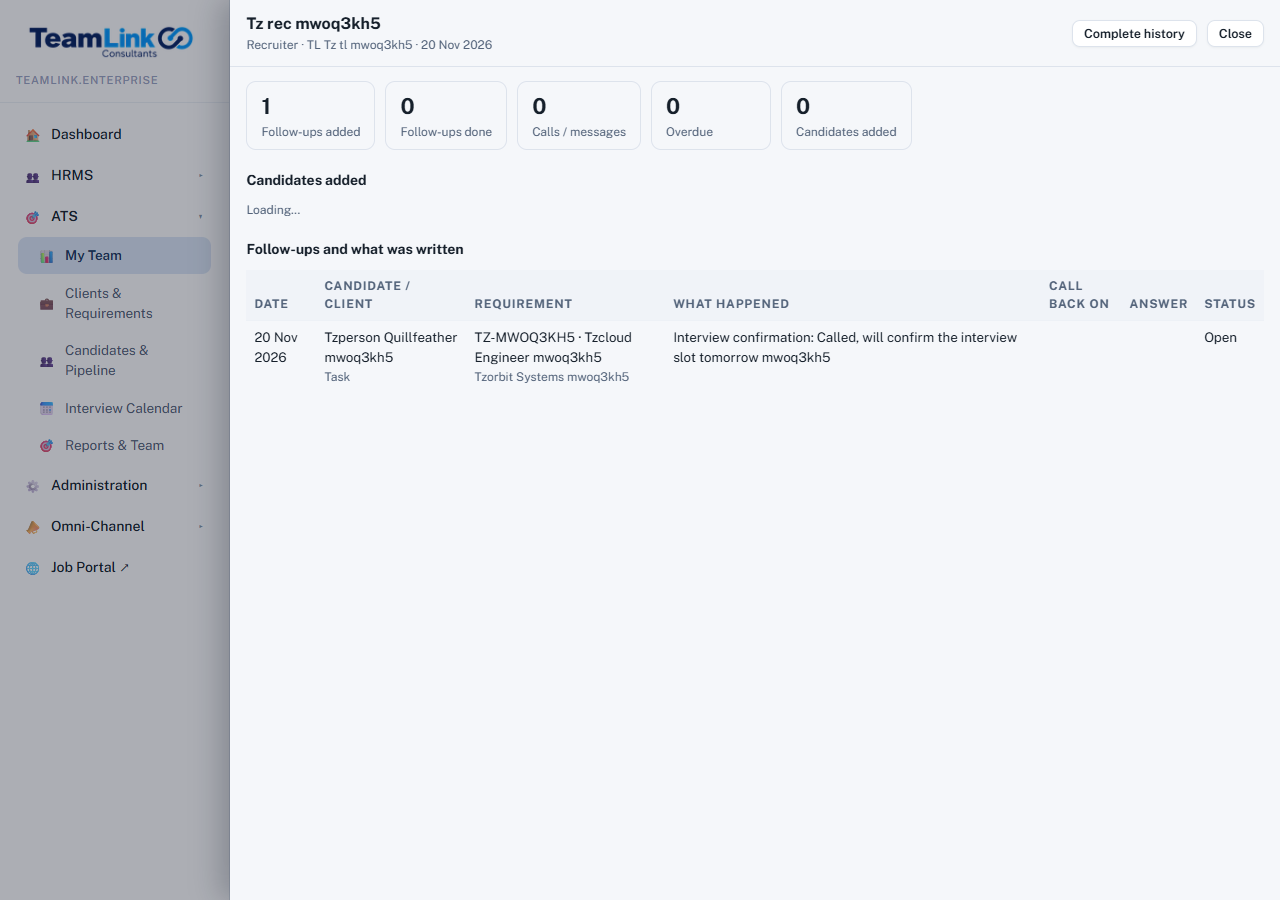
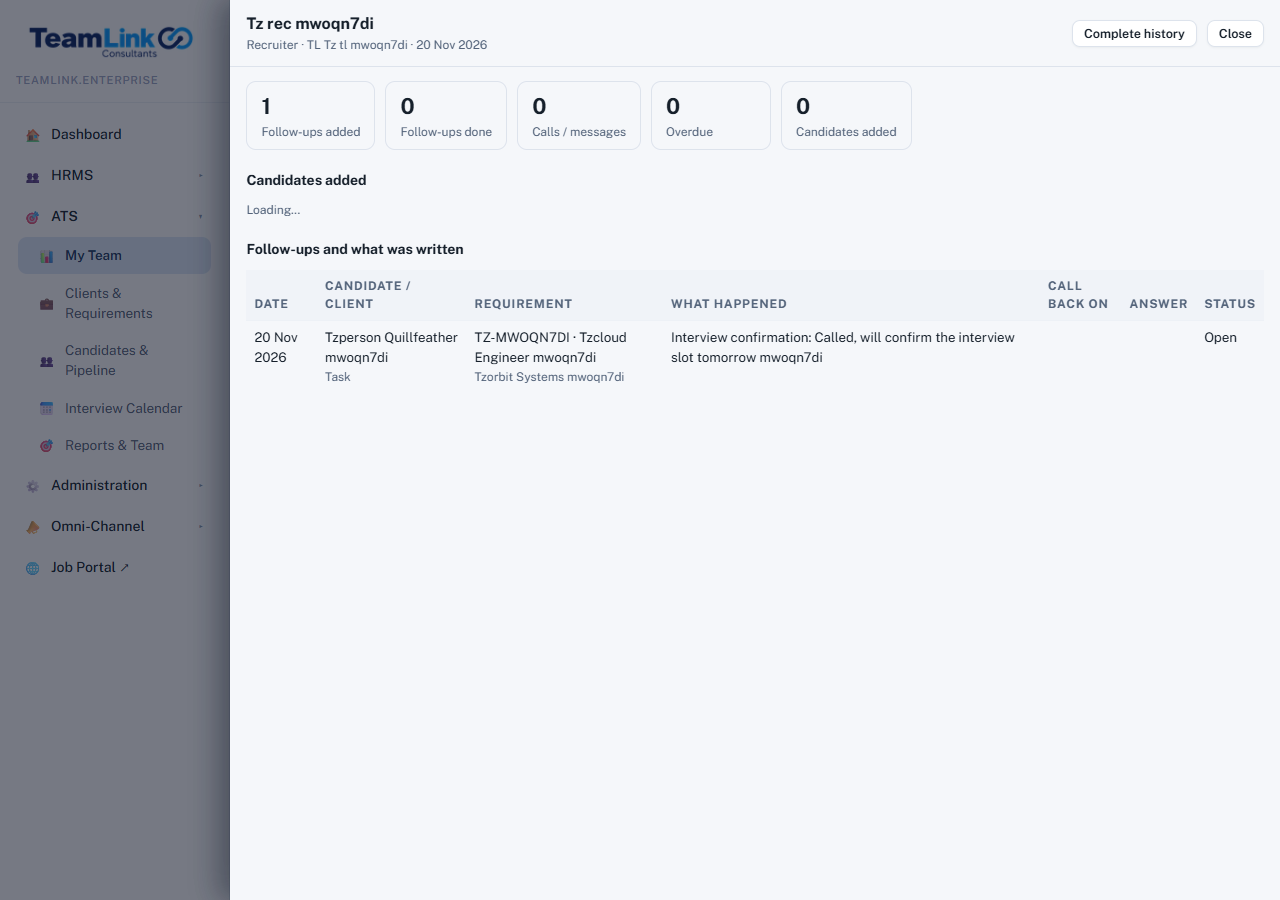
Overall report: the same button for a team lead (their team) and the Super Admin (team leads first: a team lead opens that team, a recruiter opens their own report); browser smoke

diff --git a/frontend/src/components/dashboard/TeamReportCard.jsx b/frontend/src/components/dashboard/TeamReportCard.jsx
@@ -124,15 +124,12 @@ function PersonPanel({ person, from, to, onClose }) {
   );
 }
 
-// the table: one row per person + View. Used inside the TL's card and inside the Super Admin's overall panel.
-function ReportTable({ title, onClose }) {
+// the days chosen (Today, Yesterday, This week, This month or two dates), shared by every level of the Overall report
+function useRange() {
   const [opts, setOpts] = useState(null);
   const [range, setRange] = useState({ from: '', to: '' });
   const [preset, setPreset] = useState('today');
-  const [data, setData] = useState(null);
-  const [open, setOpen] = useState(null);
   const [failed, setFailed] = useState(false);
-
   useEffect(() => {
     api.get('/followup-report/options').then((r) => {
       setOpts(r.data);
@@ -140,83 +137,176 @@ function ReportTable({ title, onClose }) {
       setRange({ from: p[2], to: p[3] });
     }).catch(() => setFailed(true));
   }, []);
+  return {
+    opts, range, preset, failed,
+    choose: (key, from, to) => { setPreset(key); setRange({ from, to }); },
+    setFrom: (v) => { setPreset('custom'); setRange((r) => ({ ...r, from: v })); },
+    setTo: (v) => { setPreset('custom'); setRange((r) => ({ ...r, to: v })); },
+  };
+}
+function RangeBar({ r, children }) {
+  return (
+    <div className="trc-bar">
+      {presetsFor(r.opts.today).map(([k, l, f, t]) => <button key={k} type="button" className={`btn btn-sm${r.preset === k ? ' btn-primary' : ''}`} onClick={() => r.choose(k, f, t)}>{l}</button>)}
+      <label className="small-muted">From <input type="date" value={r.range.from} max={r.range.to || undefined} onChange={(e) => r.setFrom(e.target.value)} /></label>
+      <label className="small-muted">To <input type="date" value={r.range.to} min={r.range.from || undefined} onChange={(e) => r.setTo(e.target.value)} /></label>
+      {children}
+    </div>
+  );
+}
+const useSummary = (r, leadId) => {
+  const [data, setData] = useState(null);
+  const [failed, setFailed] = useState(false);
   useEffect(() => {
-    if (!opts || !range.from || !range.to || range.to < range.from) return;
-    api.get('/followup-report/summary', { params: { from: range.from, to: range.to, period: 'day', imported: 'include' } })
-      .then((r) => { setData(r.data); setFailed(false); }).catch(() => setFailed(true));
-  }, [opts, range]);
+    if (!r.opts || !r.range.from || !r.range.to || r.range.to < r.range.from) return;
+    api.get('/followup-report/summary', { params: { from: r.range.from, to: r.range.to, period: 'day', imported: 'include', leadId: leadId || undefined } })
+      .then((x) => { setData(x.data); setFailed(false); }).catch(() => setFailed(true));
+  }, [r.opts, r.range.from, r.range.to, leadId]); // eslint-disable-line react-hooks/exhaustive-deps
+  return { data, failed };
+};
+const sum4 = (rows) => [0, 1, 2, 3].map((i) => rows.reduce((n, x) => n + (x.m[i] || 0), 0));
+const Num = ({ v, bad }) => <td className={`trc-num${v ? '' : ' trc-zero'}${bad && v ? ' trc-bad' : ''}`}>{v || '–'}</td>;
 
+// ONE team: one row per recruiter + View, and the team's overall line. Used in the team lead's card and inside the Super Admin's team page.
+function TeamTable({ r, leadId, title, onBack, onClose }) {
+  const { data, failed } = useSummary(r, leadId);
+  const [open, setOpen] = useState(null);
   if (failed && !data) return onClose ? <div className="error-text">The report could not be loaded.</div> : null; // a login with no report simply has no card
-  if (!opts) return onClose ? <div className="small-muted">Loading…</div> : null;
+  if (!r.opts) return onClose ? <div className="small-muted">Loading…</div> : null;
   const idx = data ? SHOWN.map(([k]) => data.fields.indexOf(k)) : [];
-  const shown = (r) => ({ ...r, m: idx.map((i) => (i >= 0 ? r.m[i] : 0)) });
-  const choose = (key, from, to) => { setPreset(key); setRange({ from, to }); };
-  const showLead = !!data && data.table.headers.includes('TL');
-
+  const shown = (x) => ({ ...x, m: idx.map((i) => (i >= 0 ? x.m[i] : 0)) });
   return (
     <>
       <div className="trc-head">
-        <h3>{title}</h3>
-        <div className="trc-bar">
-          {presetsFor(opts.today).map(([k, l, f, t]) => <button key={k} type="button" className={`btn btn-sm${preset === k ? ' btn-primary' : ''}`} onClick={() => choose(k, f, t)}>{l}</button>)}
-          <label className="small-muted">From <input type="date" value={range.from} max={range.to || undefined} onChange={(e) => { setPreset('custom'); setRange((r) => ({ ...r, from: e.target.value })); }} /></label>
-          <label className="small-muted">To <input type="date" value={range.to} min={range.from || undefined} onChange={(e) => { setPreset('custom'); setRange((r) => ({ ...r, to: e.target.value })); }} /></label>
-          {onClose && <button type="button" className="btn btn-sm" onClick={onClose}>Close</button>}
+        <div className="trc-titlebar">
+          {onBack && <button type="button" className="btn btn-sm" onClick={onBack}>← All team leads</button>}
+          <h3>{title}</h3>
         </div>
+        <RangeBar r={r}>{onClose && <button type="button" className="btn btn-sm" onClick={onClose}>Close</button>}</RangeBar>
       </div>
       {!data ? <div className="small-muted">Loading…</div> : (
         <div className="trd-scroll">
           <table className="trc-table">
             <thead>
-              <tr><th>Recruiter</th>{showLead && <th>TL</th>}{SHOWN.map(([k, l]) => <th key={k} className="trc-num">{l}</th>)}<th /></tr>
+              <tr><th>Recruiter</th>{SHOWN.map(([k, l]) => <th key={k} className="trc-num">{l}</th>)}<th /></tr>
             </thead>
             <tbody>
               {data.rows.map((raw) => {
-                const r = shown(raw);
+                const x = shown(raw);
                 return (
-                  <tr key={r.id}>
-                    <td><b>{r.name}</b>{r.former ? <span className="trc-tag">left</span> : null}</td>
-                    {showLead && <td>{r.leadName || ''}</td>}
-                    {r.m.map((v, i) => <td key={SHOWN[i][0]} className={`trc-num${v ? '' : ' trc-zero'}${SHOWN[i][0] === 'overdue' && v ? ' trc-bad' : ''}`}>{v || '–'}</td>)}
-                    <td className="trc-act"><button type="button" className="btn btn-sm" onClick={() => setOpen(r)}>View</button></td>
+                  <tr key={x.id}>
+                    <td><b>{x.name}</b>{x.role === 'TL' ? <span className="trc-tag">team lead</span> : null}{x.former ? <span className="trc-tag">left</span> : null}</td>
+                    {x.m.map((v, i) => <Num key={SHOWN[i][0]} v={v} bad={SHOWN[i][0] === 'overdue'} />)}
+                    <td className="trc-act"><button type="button" className="btn btn-sm" onClick={() => setOpen(x)}>View</button></td>
                   </tr>
                 );
               })}
-              {data.rows.length === 0 && <tr><td colSpan={SHOWN.length + 3} className="small-muted">Nobody in this team yet.</td></tr>}
+              {data.rows.length === 0 && <tr><td colSpan={SHOWN.length + 2} className="small-muted">Nobody in this team yet.</td></tr>}
             </tbody>
             {data.rows.length > 1 && (
               <tfoot>
-                <tr><td><b>Total</b></td>{showLead && <td />}{idx.map((i, n) => <td key={SHOWN[n][0]} className="trc-num"><b>{(i >= 0 && data.total.m[i]) || '–'}</b></td>)}<td /></tr>
+                <tr><td><b>Team overall</b></td>{idx.map((i, n) => <td key={SHOWN[n][0]} className="trc-num"><b>{(i >= 0 && data.total.m[i]) || '–'}</b></td>)}<td /></tr>
               </tfoot>
             )}
           </table>
         </div>
       )}
-      {open && <PersonPanel person={open} from={range.from} to={range.to} onClose={() => setOpen(null)} />}
+      {open && <PersonPanel person={open} from={r.range.from} to={r.range.to} onClose={() => setOpen(null)} />}
     </>
   );
 }
 
-// the dashboard piece: a team lead gets the card; a Super Admin gets the one "Overall report" button; nobody else gets anything
-export default function TeamReportCard({ user }) {
-  const [all, setAll] = useState(false);
-  if (!user) return null;
-  if (user.role === 'SUPER_ADMIN') {
-    return (
-      <div className="trc-adminbar">
-        <button type="button" className="btn btn-primary" onClick={() => setAll(true)}>Overall report</button>
-        <span className="small-muted">Every recruiter's work: follow-ups, calls and the candidates they added, day by day.</span>
-        {all && (
-          <div className="trd-wrap" role="presentation">
-            <div className="trd-back" onMouseDown={() => setAll(false)} aria-hidden="true" />
-            <aside className="trd-panel" role="dialog" aria-modal="true" aria-label="Overall report">
-              <div className="trd-body"><ReportTable title="Overall report" onClose={() => setAll(false)} /></div>
-            </aside>
-          </div>
-        )}
+// the Super Admin's first page: ONE ROW PER TEAM LEAD with the team's numbers; View opens that team (its recruiters, the team overall)
+function TlList({ r, onPick, onClose }) {
+  const { data, failed } = useSummary(r, '');
+  const [openOne, setOpenOne] = useState(null);
+  if (failed && !data) return <div className="error-text">The report could not be loaded.</div>;
+  if (!r.opts || !data) return <div className="small-muted">Loading…</div>;
+  const idx = SHOWN.map(([k]) => data.fields.indexOf(k));
+  const mOf = (x) => idx.map((i) => (i >= 0 ? x.m[i] : 0));
+  const tls = data.rows.filter((x) => ['TL', 'STL'].includes(x.role));
+  const teams = tls.map((tl) => {
+    const members = data.rows.filter((x) => x.id !== tl.id && x.leadName === tl.name);
+    return { tl, members, m: sum4([{ m: mOf(tl) }, ...members.map((x) => ({ m: mOf(x) }))]) };
+  }).sort((a, b) => a.tl.name.localeCompare(b.tl.name));
+  const none = data.rows.filter((x) => !['TL', 'STL'].includes(x.role) && !x.leadName);
+  return (
+    <>
+      <div className="trc-head">
+        <h3>Overall report</h3>
+        <RangeBar r={r}>{onClose && <button type="button" className="btn btn-sm" onClick={onClose}>Close</button>}</RangeBar>
       </div>
-    );
-  }
-  if (user.atsRole !== 'TL') return null;
-  return <div className="card section trc"><ReportTable title="Report of your team" /></div>;
+      <div className="trd-scroll">
+        <table className="trc-table">
+          <thead>
+            <tr><th>Team lead</th><th className="trc-num">Recruiters</th>{SHOWN.map(([k, l]) => <th key={k} className="trc-num">{l}</th>)}<th /></tr>
+          </thead>
+          <tbody>
+            {teams.map(({ tl, members, m }) => (
+              <tr key={tl.id}>
+                <td><b>{tl.name}</b>{tl.former ? <span className="trc-tag">left</span> : null}</td>
+                <td className="trc-num">{members.length || '–'}</td>
+                {m.map((v, i) => <Num key={SHOWN[i][0]} v={v} bad={SHOWN[i][0] === 'overdue'} />)}
+                <td className="trc-act"><button type="button" className="btn btn-sm" onClick={() => onPick(tl)}>View</button></td>
+              </tr>
+            ))}
+            {none.length > 0 && (
+              <tr>
+                <td><b>No team lead</b><div className="small-muted">{none.map((x) => x.name).join(', ')}</div></td>
+                <td className="trc-num">{none.length}</td>
+                {sum4(none.map((x) => ({ m: mOf(x) }))).map((v, i) => <Num key={SHOWN[i][0]} v={v} bad={SHOWN[i][0] === 'overdue'} />)}
+                <td className="trc-act">{none.length === 1 ? <button type="button" className="btn btn-sm" onClick={() => setOpenOne(none[0])}>View</button> : null}</td>
+              </tr>
+            )}
+            {teams.length === 0 && none.length === 0 && <tr><td colSpan={SHOWN.length + 3} className="small-muted">Nobody to show.</td></tr>}
+          </tbody>
+          <tfoot>
+            <tr><td><b>Everyone</b></td><td />{idx.map((i, n) => <td key={SHOWN[n][0]} className="trc-num"><b>{(i >= 0 && data.total.m[i]) || '–'}</b></td>)}<td /></tr>
+          </tfoot>
+        </table>
+      </div>
+      {openOne && <PersonPanel person={{ ...openOne, m: mOf(openOne) }} from={r.range.from} to={r.range.to} onClose={() => setOpenOne(null)} />}
+    </>
+  );
+}
+
+function OverallPanel({ onClose }) {
+  const r = useRange();
+  const [lead, setLead] = useState(null);
+  if (r.failed) return <div className="error-text">The report could not be loaded.</div>;
+  if (!r.opts) return <div className="small-muted">Loading…</div>;
+  return lead
+    ? <TeamTable r={r} leadId={lead.id} title={`${lead.name}'s team`} onBack={() => setLead(null)} onClose={onClose} />
+    : <TlList r={r} onPick={setLead} onClose={onClose} />;
+}
+
+// the team lead's own report page (inside the side panel): their team, recruiter by recruiter, with the team overall
+function TlPanel({ onClose }) {
+  const r = useRange();
+  if (r.failed) return <div className="error-text">The report could not be loaded.</div>;
+  if (!r.opts) return <div className="small-muted">Loading…</div>;
+  return <TeamTable r={r} title="Report of your team" onClose={onClose} />;
+}
+
+// the dashboard piece: the SAME "Overall report" button for a Super Admin (team leads first) and for a team lead (their team); it opens a side
+// panel. Nobody else gets anything.
+export default function TeamReportCard({ user }) {
+  const [open, setOpen] = useState(false);
+  if (!user) return null;
+  const admin = user.role === 'SUPER_ADMIN';
+  if (!admin && user.atsRole !== 'TL') return null;
+  return (
+    <div className="trc-adminbar">
+      <button type="button" className="btn btn-primary" onClick={() => setOpen(true)}>Overall report</button>
+      <span className="small-muted">{admin ? "Every team lead's team: click a team lead for their recruiters, a recruiter for their own work." : "Your team: every recruiter's follow-ups, calls and the candidates they added. Click View on a recruiter."}</span>
+      {open && (
+        <div className="trd-wrap" role="presentation">
+          <div className="trd-back" onMouseDown={() => setOpen(false)} aria-hidden="true" />
+          <aside className="trd-panel" role="dialog" aria-modal="true" aria-label={admin ? 'Overall report' : 'Report of your team'}>
+            <div className="trd-body">{admin ? <OverallPanel onClose={() => setOpen(false)} /> : <TlPanel onClose={() => setOpen(false)} />}</div>
+          </aside>
+        </div>
+      )}
+    </div>
+  );
 }

diff --git a/backend/scripts/team-report-smoke.js b/backend/scripts/team-report-smoke.js
@@ -1,7 +1,7 @@
 #!/usr/bin/env node
 /**
- * BROWSER SMOKE of the dashboard's 'Report of your team' (founder 2026-11-20): only a TL has the card, a recruiter has none, the Super Admin has the
- * 'Overall report' button. View opens a person's report: the candidates they added and every follow-up with its text. A private sandbox server (copy of the sandbox database) + the Vite dev server in front of it + Edge.
+ * BROWSER SMOKE of the dashboard's 'Report of your team' (founder 2026-11-20): a TL and the Super Admin have the same 'Overall report' button (TL: their team; Admin: team leads first),
+ * a recruiter has none. View opens a person's report: the candidates they added and every follow-up with its text. A private sandbox server (copy of the sandbox database) + the Vite dev server in front of it + Edge.
  *   TEST_SOURCE_DB=<sandbox.db> TEST_PORT=4301 node scripts/team-report-smoke.js     (screenshots: docs/team-report-2026-11-20/)
  */
 const fs = require('fs');
@@ -70,20 +70,23 @@ const waitFor = async (url, tries = 240) => { for (let i = 0; i < tries; i += 1)
     return { ctx, page };
   };
   try {
-    // TL: the card, one row per recruiter, View
+    // TL: the same "Overall report" button as the Super Admin; it opens THEIR team (recruiter rows + View + team overall)
     {
       const { ctx, page } = await open(tl, '/ats/dashboard');
-      const card = page.locator('.trc', { hasText: 'Report of your team' });
-      const up = await card.waitFor({ state: 'visible', timeout: 30000 }).then(() => true).catch(() => false);
-      check('TL: the dashboard has "Report of your team"', up, await page.evaluate(() => document.body.innerText.slice(0, 300)).catch(() => ''));
+      const btn = page.locator('button', { hasText: 'Overall report' });
+      const up = await btn.waitFor({ state: 'visible', timeout: 60000 }).then(() => true).catch(() => false);
+      check('TL: the dashboard has the "Overall report" button (no always-open card)', up && (await page.locator('.trc').count()) === 0, await page.evaluate(() => document.body.innerText.slice(0, 300)).catch(() => ''));
       if (up) {
-        const row = card.locator('tr', { hasText: rec.name });
-        await row.waitFor({ state: 'visible', timeout: 30000 }).catch(() => null);
-        check('TL: the card has one row for their recruiter, with a View button', await row.locator('button', { hasText: 'View' }).isVisible().catch(() => false));
-        check('TL: Today / Yesterday / This week / This month and two date boxes are there', (await card.locator('button', { hasText: /^(Today|Yesterday|This week|This month)$/ }).count()) === 4 && (await card.locator('input[type=date]').count()) === 2);
-        await page.screenshot({ path: path.join(SHOTS, 'tl-card.png') });
+        await btn.click();
+        const team = page.locator('.trd-panel', { hasText: 'Report of your team' });
+        const row = team.locator('tr', { hasText: rec.name });
+        const rowUp = await row.waitFor({ state: 'visible', timeout: 60000 }).then(() => true).catch(() => false);
+        check('TL: the button opens their team: one row for their recruiter, with a View button', rowUp && (await row.locator('button', { hasText: 'View' }).isVisible()));
+        check('TL: Today / Yesterday / This week / This month and two date boxes are there', (await team.locator('button', { hasText: /^(Today|Yesterday|This week|This month)$/ }).count()) === 4 && (await team.locator('input[type=date]').count()) === 2);
+        check('TL: the team overall line is not shown for a team of one, but the recruiter\'s numbers are', rowUp);
+        await page.screenshot({ path: path.join(SHOTS, 'tl-team-panel.png') });
         await row.locator('button', { hasText: 'View' }).click();
-        const panel = page.locator('.trd-panel');
+        const panel = page.locator('.trd-panel', { hasText: 'Candidates added' }).last();
         const pv = await panel.waitFor({ state: 'visible', timeout: 20000 }).then(() => true).catch(() => false);
         check('TL: View opens that recruiter\'s report in a side panel', pv);
         if (pv) {
@@ -94,36 +97,49 @@ const waitFor = async (url, tries = 240) => { for (let i = 0; i < tries; i += 1)
           check('TL: ...and the follow-up with the text that was written', (await panel.innerText()).includes(WROTE));
           await page.screenshot({ path: path.join(SHOTS, 'tl-view-panel.png') });
           await page.keyboard.press('Escape');
-          check('TL: Escape closes the panel', await panel.waitFor({ state: 'detached', timeout: 5000 }).then(() => true).catch(() => false));
+          check('TL: Escape closes the recruiter panel and the team stays', await page.locator('.trd-panel', { hasText: 'Candidates added' }).count() === 0 && await team.isVisible());
         }
       }
       await ctx.close();
     }
-    // Recruiter: no card at all
+    // Recruiter: nothing at all
     {
       const { ctx, page } = await open(rec, '/ats/dashboard');
       await page.waitForTimeout(4000);
-      check('Recruiter: no team report card and no Overall report button', (await page.locator('.trc').count()) === 0 && (await page.locator('button', { hasText: 'Overall report' }).count()) === 0);
+      check('Recruiter: no team report and no Overall report button', (await page.locator('.trc').count()) === 0 && (await page.locator('button', { hasText: 'Overall report' }).count()) === 0);
       await ctx.close();
     }
-    // Super Admin: only the Overall report button
+    // Super Admin: the button; first page = team leads; a team lead -> that team; a recruiter -> their report
     {
       const { ctx, page } = await open(sa, '/ats/dashboard');
       const btn = page.locator('button', { hasText: 'Overall report' });
       const there = await btn.waitFor({ state: 'visible', timeout: 90000 }).then(() => true).catch(() => false);
-      check('Admin: the dashboard has an Overall report button, and no team card of its own', there && (await page.locator('.trc', { hasText: 'Report of your team' }).count()) === 0);
+      check('Admin: the dashboard has the Overall report button', there);
       if (there) {
         await page.waitForTimeout(3000);
         check('Admin: no "Carried over from yesterday" and no "My end-of-day report" on the dashboard', !(await page.evaluate(() => /Carried over from yesterday|My end-of-day report/.test(document.body.innerText))));
         await btn.click();
         const panel = page.locator('.trd-panel', { hasText: 'Overall report' });
-        const ok = await panel.locator('tr', { hasText: rec.name }).waitFor({ state: 'visible', timeout: 90000 }).then(() => true).catch(() => false);
-        check('Admin: the Overall report lists everybody, with their TL', ok && (await panel.innerText()).includes(tl.name), (await page.evaluate(() => { const w = document.querySelector('.trd-wrap'); return w ? w.innerText.slice(0, 500) : `no panel; body: ${document.body.innerText.slice(0, 200)}`; }).catch(() => 'eval failed')));
-        await page.screenshot({ path: path.join(SHOTS, 'admin-overall.png') });
-        if (ok) {
-          await panel.locator('tr', { hasText: rec.name }).locator('button', { hasText: 'View' }).click();
-          const v = await page.locator('.trd-panel', { hasText: 'Candidates added' }).first().waitFor({ state: 'visible', timeout: 20000 }).then(() => true).catch(() => false);
-          check('Admin: View on a person opens that person\'s report', v);
+        const tlRow = panel.locator('tr', { hasText: tl.name });
+        const first = await tlRow.waitFor({ state: 'visible', timeout: 90000 }).then(() => true).catch(() => false);
+        const txt0 = await panel.innerText().catch(() => '');
+        check('Admin: the first page lists TEAM LEADS (a team lead row, with the number of recruiters), not every recruiter', first && /team lead/i.test(txt0) && !(await panel.locator('tr td b', { hasText: rec.name }).count()), txt0.slice(0, 300));
+        await page.screenshot({ path: path.join(SHOTS, 'admin-overall-tls.png') });
+        if (first) {
+          await tlRow.locator('button', { hasText: 'View' }).click();
+          const team = page.locator('.trd-panel', { hasText: `${tl.name}'s team` });
+          const recRow = team.locator('tr', { hasText: rec.name });
+          const second = await recRow.waitFor({ state: 'visible', timeout: 60000 }).then(() => true).catch(() => false);
+          check('Admin: a team lead opens that team: their recruiters, with a way back', second && (await team.locator('button', { hasText: 'All team leads' }).isVisible()), (await team.innerText().catch(() => '')).slice(0, 300));
+          await page.screenshot({ path: path.join(SHOTS, 'admin-team.png') });
+          if (second) {
+            await recRow.locator('button', { hasText: 'View' }).click();
+            const v = await page.locator('.trd-panel', { hasText: 'Candidates added' }).last().waitFor({ state: 'visible', timeout: 20000 }).then(() => true).catch(() => false);
+            check('Admin: a recruiter opens that recruiter\'s own report', v);
+            await page.keyboard.press('Escape');
+            await team.locator('button', { hasText: 'All team leads' }).click();
+            check('Admin: "All team leads" goes back to the team lead list', await panel.locator('tr', { hasText: tl.name }).waitFor({ state: 'visible', timeout: 30000 }).then(() => true).catch(() => false));
+          }
         }
       }
       await ctx.close();

diff --git a/frontend/src/components/dashboard/teamReportCard.css b/frontend/src/components/dashboard/teamReportCard.css
@@ -31,3 +31,6 @@
 .trd-nums b { font-size: 22px; }
 .trd-nums span { font-size: 12px; color: var(--ink-soft); }
 @media (max-width: 720px) { .trd-panel { width: 100vw; min-width: 0; } }
+
+.trc-titlebar { display: flex; align-items: center; gap: 10px; flex-wrap: wrap; }
+.trc-titlebar h3 { margin: 0; }
